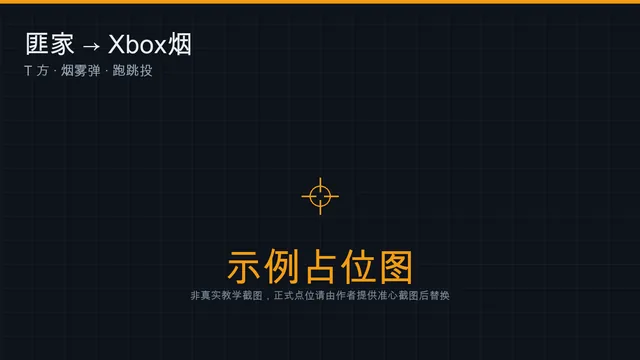
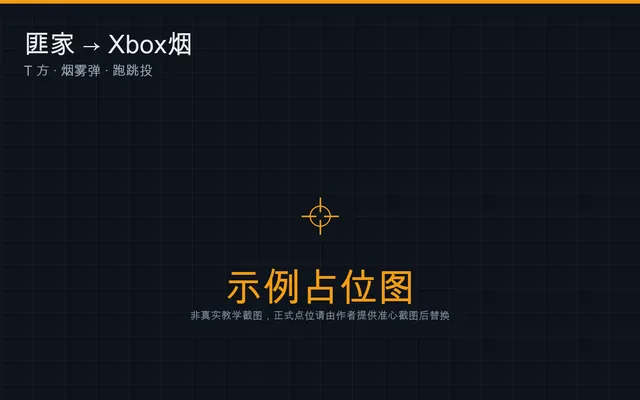
fix(ui): 详情大图改为整图自适应，竖屏截图缩略图补边显示；离线缓存版本号可读
- .zoomimg 用 flex + max-* 才能真正按容器高度收缩，竖屏长图一次看全
- process_image.py：竖屏图生成 16:10 补边缩略图，横屏图仍居中裁切
- 新增记录后主动询问当前 SW 版本号，离线面板显示真实缓存版本
- Pages 工作流首次自动启用 Pages（enablement: true）

Changed region(s): [[0.2812, 0.6722, 0.7188, 0.8556], [0.0312, 0.0611, 0.3125, 0.2139], [0.4688, 0.5194, 0.5312, 0.5806]]

diff --git a/public/sw.js b/public/sw.js
@@ -13,7 +13,7 @@
  *  用户点击更新 → skipWaiting → 页面 reload，保证不会长期跑旧版本。
  */
 
-const VERSION = '1790228526667'
+const VERSION = '1790229314082-294bc40'
 const CACHE_STATIC = 'd2-static-' + VERSION
 /** 图片缓存用固定名字：图片文件名是稳定的，升级版本时不需要重新下载一遍 */
 const CACHE_IMG = 'd2-img-v1'
@@ -170,7 +170,12 @@ self.addEventListener('message', (event) => {
     return
   }
   if (data.type === 'GET_VERSION') {
-    event.source && event.source.postMessage({ type: 'SW_VERSION', version: VERSION })
+    event.waitUntil(
+      (async () => {
+        const cs = await self.clients.matchAll({ includeUncontrolled: true })
+        cs.forEach((c) => c.postMessage({ type: 'SW_VERSION', version: VERSION }))
+      })()
+    )
     return
   }
   if (data.type === 'CACHE_ALL' && Array.isArray(data.urls)) {

diff --git a/src/lib/pwa.ts b/src/lib/pwa.ts
@@ -55,6 +55,7 @@ export function registerSW(handlers: Handlers): void {
         handlers.onCleared()
         break
       case 'SW_ACTIVATED':
+      case 'SW_VERSION':
         handlers.onActivated(String(data.version || ''))
         break
       case 'CACHE_STATS':
@@ -68,6 +69,9 @@ export function registerSW(handlers: Handlers): void {
       .register(`${base}sw.js`, { scope: base, updateViaCache: 'none' })
       .then((reg) => {
         registration = reg
+
+        // 主动问一次当前正在运行的版本号（刷新后版本号也要能显示）
+        reg.active?.postMessage({ type: 'GET_VERSION' })
 
         if (reg.waiting && navigator.serviceWorker.controller) {
           handlers.onUpdateAvailable(applyUpdate)

diff --git a/src/styles.css b/src/styles.css
@@ -719,8 +719,9 @@ a {
   border-radius: 12px;
   overflow: hidden;
   height: min(62vh, 620px);
-  display: grid;
-  place-items: center;
+  display: flex;
+  align-items: center;
+  justify-content: center;
   touch-action: pan-y;
   user-select: none;
 }
@@ -731,8 +732,12 @@ a {
 }
 
 .zoomimg img {
+  /* 用 flex + max-* 才能真正按容器高度收缩；竖屏长图也能一次看全 */
   max-width: 100%;
   max-height: 100%;
+  width: auto;
+  height: auto;
+  object-fit: contain;
   display: block;
   transform-origin: center center;
   will-change: transform;

diff --git a/scripts/sw.template.js b/scripts/sw.template.js
@@ -170,7 +170,12 @@ self.addEventListener('message', (event) => {
     return
   }
   if (data.type === 'GET_VERSION') {
-    event.source && event.source.postMessage({ type: 'SW_VERSION', version: VERSION })
+    event.waitUntil(
+      (async () => {
+        const cs = await self.clients.matchAll({ includeUncontrolled: true })
+        cs.forEach((c) => c.postMessage({ type: 'SW_VERSION', version: VERSION }))
+      })()
+    )
     return
   }
   if (data.type === 'CACHE_ALL' && Array.isArray(data.urls)) {

diff --git a/scripts/process_image.py b/scripts/process_image.py
@@ -33,6 +33,36 @@ def slugify(text: str) -> str:
     return text.strip("-")
 
 
+THUMB_RATIO = 16 / 10  # 列表卡片是 16:10
+
+
+def make_thumbnail(img: Image.Image, thumb_edge: int) -> Image.Image:
+    """
+    生成列表缩略图。
+
+    - 横屏图（正常游戏截图）：等比缩放后居中裁成 16:10，填满卡片。
+    - 竖屏图（手机竖着截的图）：整张图缩放到卡片里，左右补深色边，
+      避免把准心所在的下半部分裁掉。
+    """
+    w, h = img.size
+    if w / h >= 1.3:
+        target_h = thumb_edge * 10 / 16
+        scale = max(thumb_edge / w, target_h / h)
+        resized = img.resize((max(1, round(w * scale)), max(1, round(h * scale))), Image.LANCZOS)
+        left = (resized.width - thumb_edge) // 2
+        top = (resized.height - round(target_h)) // 2
+        return resized.crop((left, top, left + thumb_edge, top + round(target_h)))
+
+    # 竖屏：装进 16:10 画布，保留完整画面
+    tw = thumb_edge
+    th = round(tw / THUMB_RATIO)
+    inner = img.copy()
+    inner.thumbnail((tw, th), Image.LANCZOS)
+    canvas = Image.new("RGB", (tw, th), (13, 18, 25))
+    canvas.paste(inner, ((tw - inner.width) // 2, (th - inner.height) // 2))
+    return canvas
+
+
 def process(src: str, name: str, out_dir: str, max_edge: int, thumb_edge: int, quality: int) -> dict:
     if not os.path.isfile(src):
         raise SystemExit(f"找不到源图片：{src}")
@@ -64,8 +94,7 @@ def process(src: str, name: str, out_dir: str, max_edge: int, thumb_edge: int, q
     main.save(main_path, "WEBP", quality=quality, method=6, exact=False)
 
     # 3. 缩略图（列表页用，避免手机上一次性下载大图）
-    thumb = img.copy()
-    thumb.thumbnail((thumb_edge, thumb_edge), Image.LANCZOS)
+    thumb = make_thumbnail(img, thumb_edge)
     thumb_path = os.path.join(out_dir, f"{name}-thumb.webp")
     thumb.save(thumb_path, "WEBP", quality=82, method=6)
 

diff --git a/scripts/make_placeholders.py b/scripts/make_placeholders.py
@@ -20,7 +20,7 @@ FONT_CANDIDATES = [
     "/System/Library/Fonts/Supplemental/Songti.ttc",
 ]
 
-W, H = 1600, 900
+W, H = 1600, 1000  # 16:10，和列表卡片比例一致
 
 
 def load_font(size: int) -> ImageFont.FreeTypeFont:
